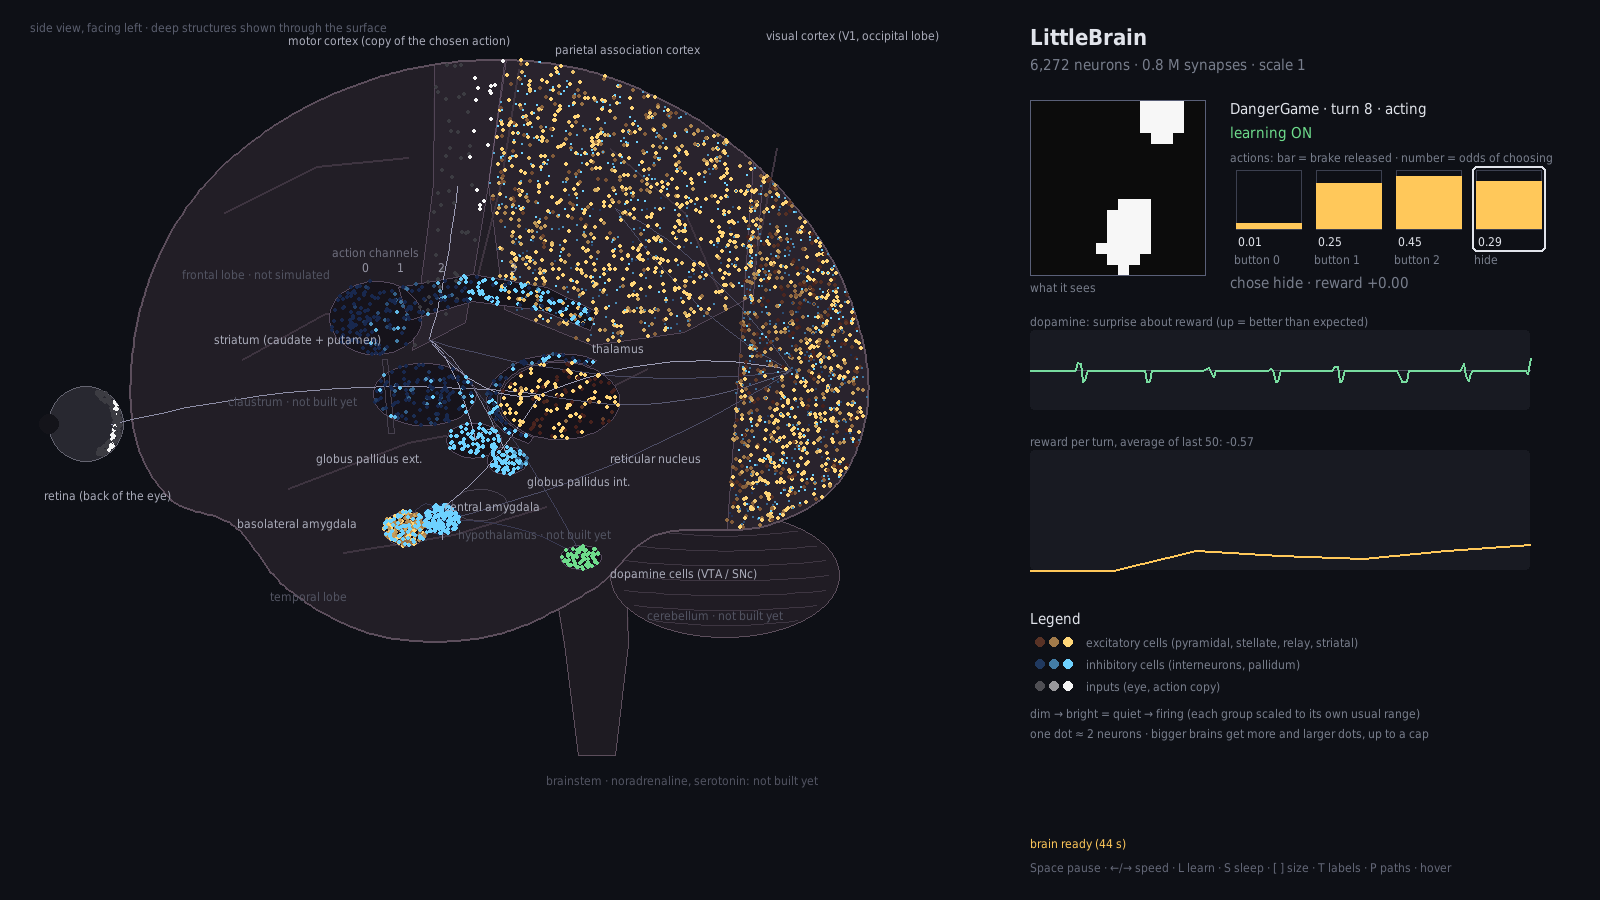
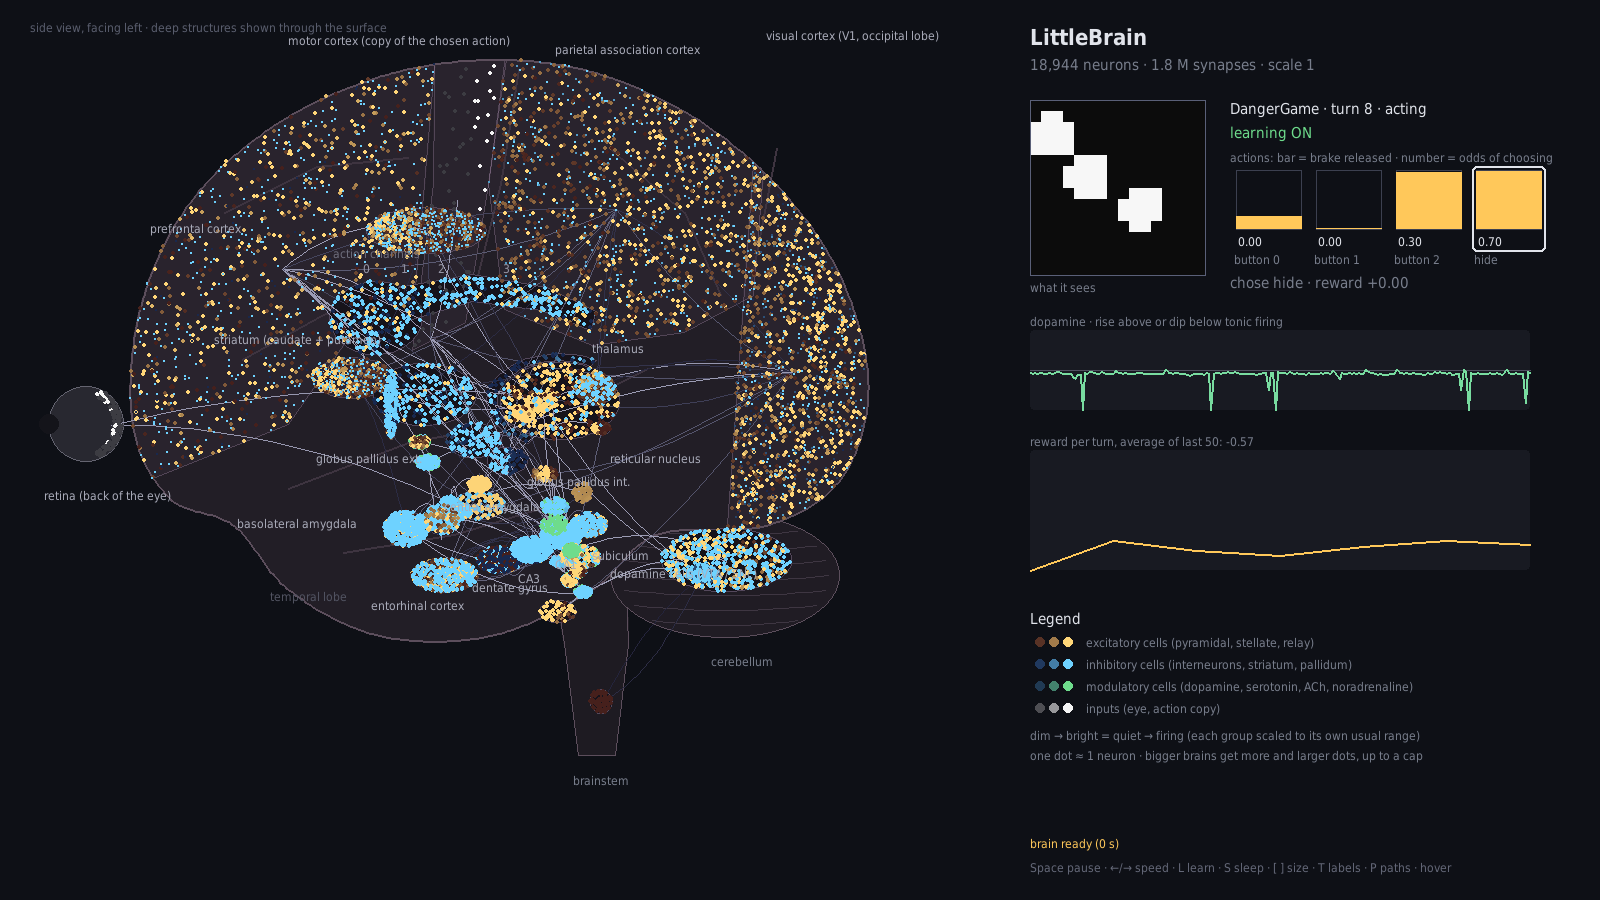
Refresh the store cover and gallery from the 18,944-neuron brain

diff --git a/notes/67-full-brain-store-page.md b/notes/67-full-brain-store-page.md
@@ -1,3 +1,7 @@
 # Full-brain store page
 
 The [store description](../.slop/description.md) introduces the current reference simulation, its learning rule, and the experiments a visitor can watch. The [reference verification](66-expanded-reference-verification.md) records the neuron and cell type counts. SLAPorSLOP stores the description in its page editor. The Markdown file contains the text for that field.
+
+The [gallery manifest](../.slop/media.json) lists three unedited 1600 × 900 captures from the desktop viewer. Each game started from its own copy of the same developed seed-0 checkpoint with 18,944 neurons and 187 populations. The captures show Signal turn 35, Danger turn 8, and Forage turn 12 with learning on. The [title illustration](../.slop/title.png) was generated from the Forage capture. The gallery shows the actual simulation output.
+
+To apply the assets to the existing listing, save the description in **Edit store page** and select **Check my repository now**. SLAPorSLOP pins the images to the checked commit and reviews the new set before displaying it.
